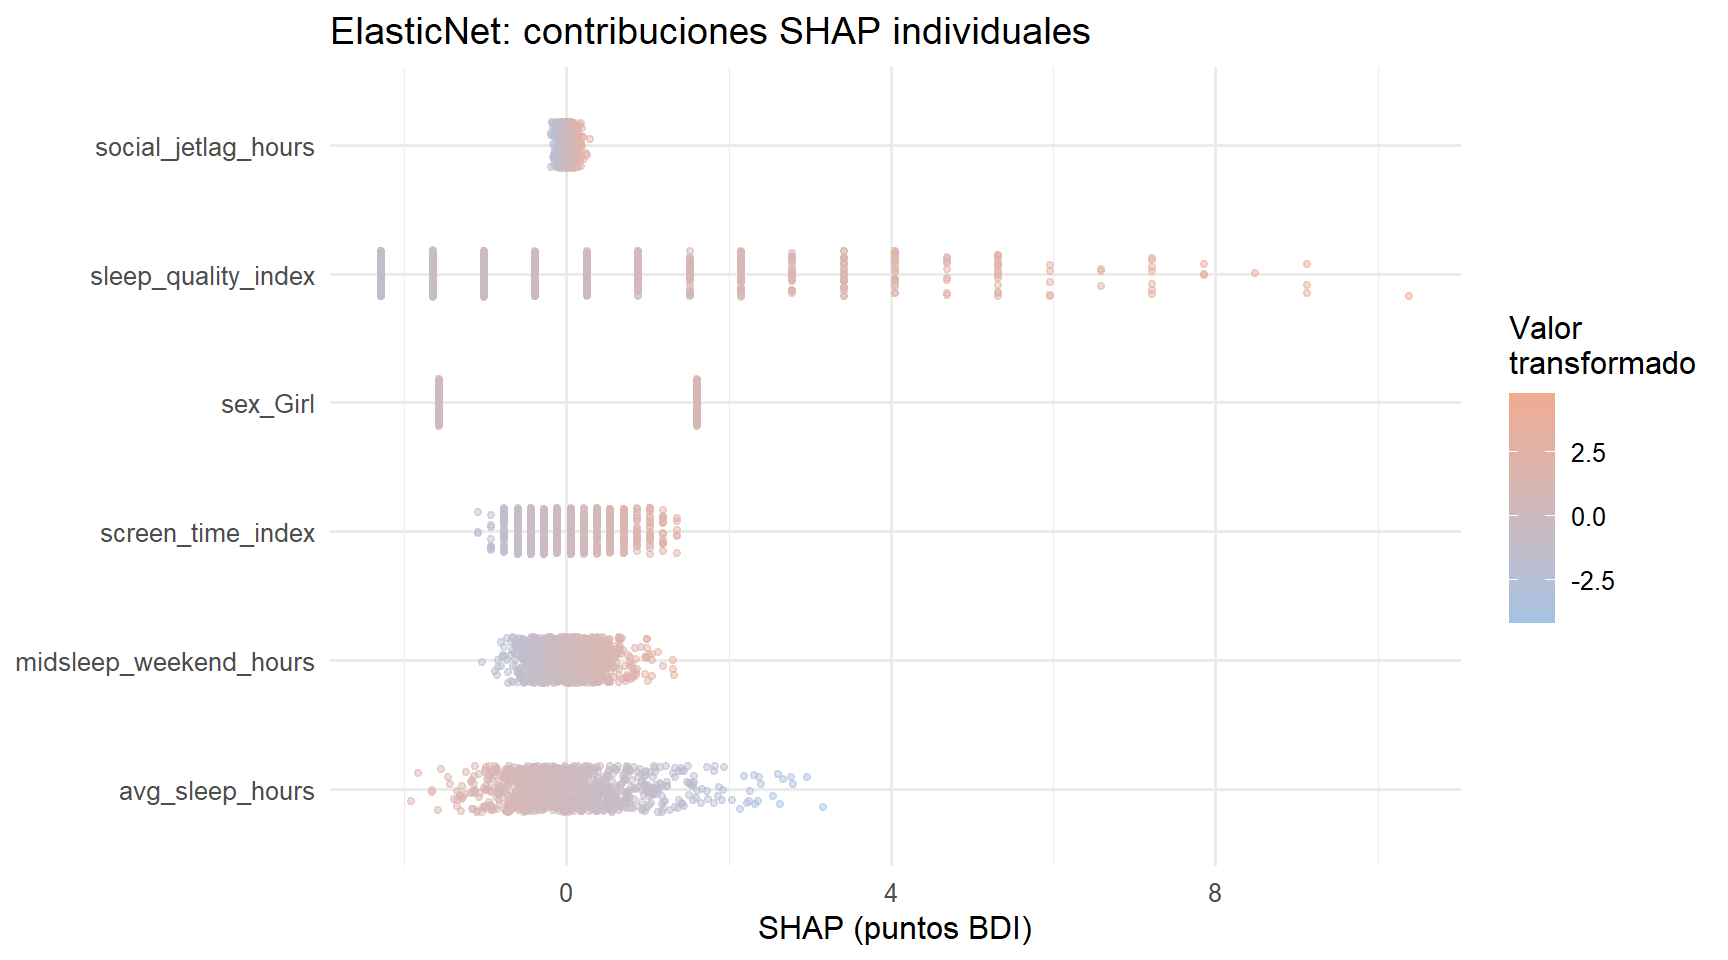
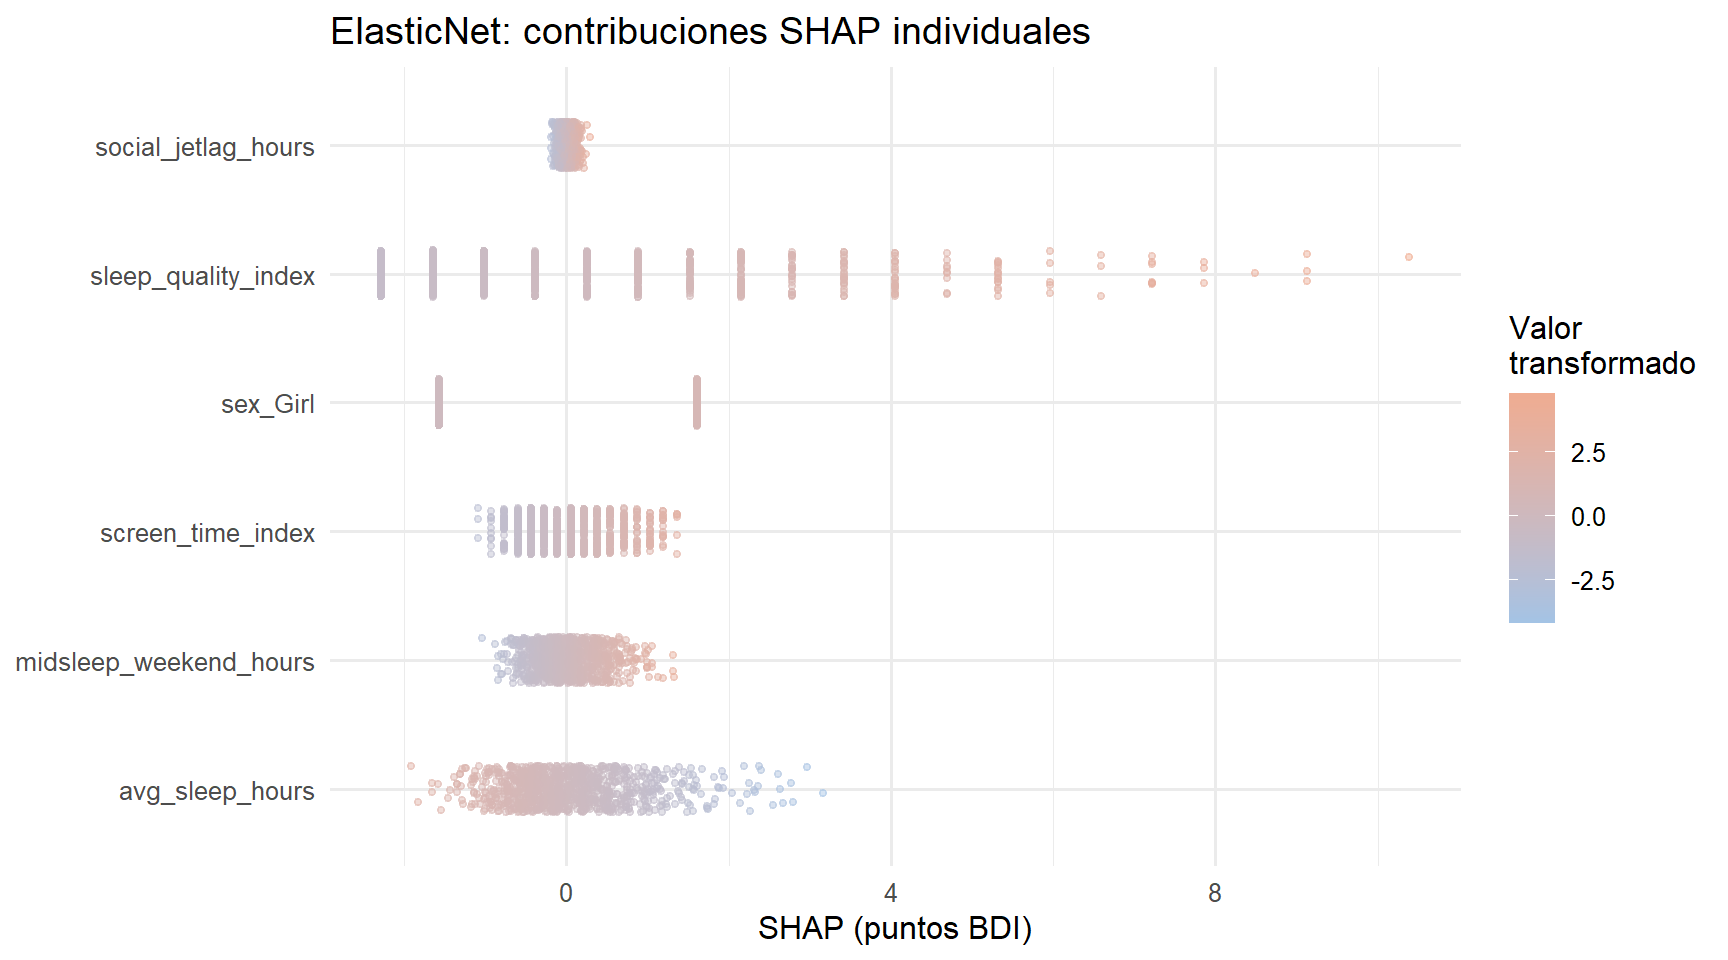
final

diff --git a/docs/interpretabilidad-de-los-modelos-finales.html b/docs/interpretabilidad-de-los-modelos-finales.html
@@ -243,6 +243,11 @@ code span.wa { color: #60a0b0; font-weight: bold; font-style: italic; } /* Warni
 </ul></li>
 <li class="chapter" data-level="5.8" data-path="metodología-del-modelado.html"><a href="metodología-del-modelado.html#comparaci%C3%B3n-entre-regresi%C3%B3n-y-clasificaci%C3%B3n"><i class="fa fa-check"></i><b>5.8</b> Comparación entre regresión y clasificación</a></li>
 <li class="chapter" data-level="5.9" data-path="metodología-del-modelado.html"><a href="metodología-del-modelado.html#persistencia-de-resultados"><i class="fa fa-check"></i><b>5.9</b> Persistencia de resultados</a></li>
+<li class="chapter" data-level="5.10" data-path="metodología-del-modelado.html"><a href="metodología-del-modelado.html#conclusiones-de-la-clasificaci%C3%B3n-y-la-regresi%C3%B3n"><i class="fa fa-check"></i><b>5.10</b> Conclusiones de la clasificación y la regresión</a>
+<ul>
+<li class="chapter" data-level="5.10.1" data-path="metodología-del-modelado.html"><a href="metodología-del-modelado.html#clasificaci%C3%B3n-del-estado-depresivo"><i class="fa fa-check"></i><b>5.10.1</b> Clasificación del estado depresivo</a></li>
+<li class="chapter" data-level="5.10.2" data-path="metodología-del-modelado.html"><a href="metodología-del-modelado.html#predicci%C3%B3n-del-puntaje-bdi-ii"><i class="fa fa-check"></i><b>5.10.2</b> Predicción del puntaje BDI-II</a></li>
+</ul></li>
 </ul></li>
 <li class="chapter" data-level="6" data-path="interpretabilidad-de-los-modelos-finales.html"><a href="interpretabilidad-de-los-modelos-finales.html"><i class="fa fa-check"></i><b>6</b> Interpretabilidad de los modelos finales</a>
 <ul>
@@ -256,7 +261,7 @@ code span.wa { color: #60a0b0; font-weight: bold; font-style: italic; } /* Warni
 <ul>
 <li class="chapter" data-level="6.4.1" data-path="interpretabilidad-de-los-modelos-finales.html"><a href="interpretabilidad-de-los-modelos-finales.html#shap-lineal-exacto-para-elasticnet"><i class="fa fa-check"></i><b>6.4.1</b> SHAP lineal exacto para ElasticNet</a></li>
 <li class="chapter" data-level="6.4.2" data-path="interpretabilidad-de-los-modelos-finales.html"><a href="interpretabilidad-de-los-modelos-finales.html#shap-de-catboost-y-prueba-de-aditividad"><i class="fa fa-check"></i><b>6.4.2</b> SHAP de CatBoost y prueba de aditividad</a></li>
-<li class="chapter" data-level="6.4.3" data-path="interpretabilidad-de-los-modelos-finales.html"><a href="interpretabilidad-de-los-modelos-finales.html#distribuciones-de-shap-beeswarm-simplificado"><i class="fa fa-check"></i><b>6.4.3</b> Distribuciones de SHAP (<em>beeswarm</em> simplificado)</a></li>
+<li class="chapter" data-level="6.4.3" data-path="interpretabilidad-de-los-modelos-finales.html"><a href="interpretabilidad-de-los-modelos-finales.html#distribuciones-de-shap-beeswarm-simplificado"><i class="fa fa-check"></i><b>6.4.3</b> Distribuciones de SHAP (beeswarm simplificado)</a></li>
 <li class="chapter" data-level="6.4.4" data-path="interpretabilidad-de-los-modelos-finales.html"><a href="interpretabilidad-de-los-modelos-finales.html#explicaci%C3%B3n-individual-y-gr%C3%A1fico-de-contribuciones"><i class="fa fa-check"></i><b>6.4.4</b> Explicación individual y gráfico de contribuciones</a></li>
 <li class="chapter" data-level="6.4.5" data-path="interpretabilidad-de-los-modelos-finales.html"><a href="interpretabilidad-de-los-modelos-finales.html#dependencia-y-posibles-no-linealidades"><i class="fa fa-check"></i><b>6.4.5</b> Dependencia y posibles no linealidades</a></li>
 </ul></li>
@@ -266,7 +271,7 @@ code span.wa { color: #60a0b0; font-weight: bold; font-style: italic; } /* Warni
 </ul></li>
 <li class="chapter" data-level="6.6" data-path="interpretabilidad-de-los-modelos-finales.html"><a href="interpretabilidad-de-los-modelos-finales.html#importancia-por-permutaci%C3%B3n-del-elasticnet"><i class="fa fa-check"></i><b>6.6</b> Importancia por permutación del ElasticNet</a></li>
 <li class="chapter" data-level="6.7" data-path="interpretabilidad-de-los-modelos-finales.html"><a href="interpretabilidad-de-los-modelos-finales.html#guardado-y-reproducibilidad"><i class="fa fa-check"></i><b>6.7</b> Guardado y reproducibilidad</a></li>
-<li class="chapter" data-level="6.8" data-path="interpretabilidad-de-los-modelos-finales.html"><a href="interpretabilidad-de-los-modelos-finales.html#interpretaci%C3%B3n-de-resultados"><i class="fa fa-check"></i><b>6.8</b> Interpretación de resultados</a></li>
+<li class="chapter" data-level="6.8" data-path="interpretabilidad-de-los-modelos-finales.html"><a href="interpretabilidad-de-los-modelos-finales.html#interpretacion-resultados"><i class="fa fa-check"></i><b>6.8</b> Interpretacion resultados</a></li>
 </ul></li>
 <li class="chapter" data-level="" data-path="referencias.html"><a href="referencias.html"><i class="fa fa-check"></i>Referencias</a></li>
 <li class="divider"></li>
@@ -632,7 +637,7 @@ f(x_i) = \phi_0 + \sum_{j=1}^{p} \phi_{ij}.
 <span id="cb15-7"><a href="interpretabilidad-de-los-modelos-finales.html#cb15-7" tabindex="-1"></a>  <span class="fu">theme_minimal</span>(<span class="at">base_size =</span> <span class="dv">12</span>)</span></code></pre></div>
 </div>
 <div id="distribuciones-de-shap-beeswarm-simplificado" class="section level3 hasAnchor" number="6.4.3">
-<h3><span class="header-section-number">6.4.3</span> Distribuciones de SHAP (<em>beeswarm</em> simplificado)<a href="interpretabilidad-de-los-modelos-finales.html#distribuciones-de-shap-beeswarm-simplificado" class="anchor-section" aria-label="Anchor link to header"></a></h3>
+<h3><span class="header-section-number">6.4.3</span> Distribuciones de SHAP (beeswarm simplificado)<a href="interpretabilidad-de-los-modelos-finales.html#distribuciones-de-shap-beeswarm-simplificado" class="anchor-section" aria-label="Anchor link to header"></a></h3>
 <p>El conjunto de puntos permite observar signo, magnitud y heterogeneidad. En estos gráficos se utiliza jitter para evitar el solapamiento; no es idéntico al algoritmo de colocación beeswarm de Python.</p>
 <div class="sourceCode" id="cb16"><pre class="sourceCode r"><code class="sourceCode r"><span id="cb16-1"><a href="interpretabilidad-de-los-modelos-finales.html#cb16-1" tabindex="-1"></a>shap_en_largo <span class="ot">&lt;-</span> <span class="fu">as.data.frame</span>(shap_en) <span class="sc">%&gt;%</span></span>
 <span id="cb16-2"><a href="interpretabilidad-de-los-modelos-finales.html#cb16-2" tabindex="-1"></a>  <span class="fu">mutate</span>(<span class="at">Fila =</span> <span class="fu">row_number</span>()) <span class="sc">%&gt;%</span></span>
@@ -874,10 +879,13 @@ f(x_i) = \phi_0 + \sum_{j=1}^{p} \phi_{ij}.
 <span id="cb30-9"><a href="interpretabilidad-de-los-modelos-finales.html#cb30-9" tabindex="-1"></a>  <span class="st">&quot;resultados/modelado_libro/interpretabilidad/catboost_R.cbm&quot;</span></span>
 <span id="cb30-10"><a href="interpretabilidad-de-los-modelos-finales.html#cb30-10" tabindex="-1"></a>)</span></code></pre></div>
 </div>
-<div id="interpretación-de-resultados" class="section level2 hasAnchor" number="6.8">
-<h2><span class="header-section-number">6.8</span> Interpretación de resultados<a href="interpretabilidad-de-los-modelos-finales.html#interpretaci%C3%B3n-de-resultados" class="anchor-section" aria-label="Anchor link to header"></a></h2>
-<p>En el libro original, la calidad del sueño y el sexo aparecen entre los predictores más relevantes, seguidos de la duración del sueño. Los valores SHAP del clasificador CatBoost se expresan en log-odds, mientras que las contribuciones del ElasticNet se presentan en puntos BDI-II. El análisis describe asociaciones utilizadas por los modelos, sin inferir que alterar una variable produciría necesariamente el cambio predicho.</p>
-<p>Los resultados de esta adaptación deben comentarse después de ejecutar los bloques en R, porque la variabilidad en el split, la regularización y el entrenamiento puede cambiar las magnitudes y el orden de las variables. No se deben reutilizar literalmente como resultados de R los coeficientes o las importancias estimadas en Python.</p>
+<div id="interpretacion-resultados" class="section level2 hasAnchor" number="6.8">
+<h2><span class="header-section-number">6.8</span> Interpretacion resultados<a href="interpretabilidad-de-los-modelos-finales.html#interpretacion-resultados" class="anchor-section" aria-label="Anchor link to header"></a></h2>
+<p>La interpretación del modelo ElasticNet permite identificar qué variables contribuyen más a sus predicciones del puntaje BDI-II y en qué dirección se manifiestan esas contribuciones, manteniendo las demás variables constantes. Entre los coeficientes publicados, el indicador correspondiente a sexo femenino (<code>sex_Girl</code>) presenta un coeficiente de 3,181 puntos, mientras que <code>sleep_quality_index</code> registra un coeficiente de 2,158 puntos por desviación estándar. En la misma escala estandarizada, <code>avg_sleep_hours</code> muestra un coeficiente negativo de -0,754, y <code>screen_time_index</code> uno positivo de 0,505.</p>
+<p>Estas estimaciones indican que, dentro del modelo ajustado, el sexo y el índice de calidad del sueño tienen asociaciones predictivas más marcadas con el puntaje que las variables de pantalla. En particular, el signo negativo de las horas promedio de sueño es compatible con una predicción menor de BDI-II para valores mayores de duración del sueño, después del ajuste por las demás variables. El signo positivo de <code>sleep_quality_index</code> debe interpretarse según la codificación concreta del índice: no se debe asumir que un valor más alto represente necesariamente mejor calidad del sueño sin comprobar la definición de la escala.</p>
+<p>La importancia por permutación, calculada mediante el aumento del RMSE al alterar cada predictor, respalda esa jerarquía. Las mayores variaciones correspondieron a <code>sleep_quality_index</code> (0,7913 puntos de RMSE), <code>sex</code> (0,3845) y <code>avg_sleep_hours</code> (0,1436). En contraste, <code>screen_time_index</code> (0,0359), <code>midsleep_weekend_hours</code> (0,0278) y especialmente <code>social_jetlag_hours</code> (0,0013) mostraron una contribución individual más pequeña al rendimiento predictivo de este ElasticNet. Esto no significa que esas variables carezcan de relevancia científica, sino que su alteración aislada afectó poco el error del modelo, dadas las demás variables y sus posibles correlaciones.</p>
+<p>El análisis SHAP lineal constituye una segunda forma de examinar estas predicciones. Su descomposición partió de un valor base de 7,2628 puntos BDI-II y reconstruyó las predicciones lineales con un error máximo de aditividad del orden de 3,553 × 10⁻¹⁵, prácticamente nulo a efectos numéricos. Este resultado comprueba la coherencia matemática de las contribuciones calculadas para ElasticNet, aunque no valida por sí mismo la precisión predictiva ni la causalidad de los efectos.</p>
+<p>En síntesis, los resultados efectivamente obtenidos en R apuntan a que el índice de calidad del sueño, el sexo y la duración del sueño tienen mayor peso predictivo que el índice global de pantallas en el ElasticNet analizado. Esta conclusión se refiere a las asociaciones aprendidas por ese modelo concreto y a la muestra estudiada. No permite establecer que modificar los hábitos de sueño o el uso de pantallas cause directamente una variación determinada del BDI-II.</p>
 
 </div>
 </div>

diff --git a/docs/metodología-del-modelado.html b/docs/metodología-del-modelado.html
@@ -243,6 +243,11 @@ code span.wa { color: #60a0b0; font-weight: bold; font-style: italic; } /* Warni
 </ul></li>
 <li class="chapter" data-level="5.8" data-path="metodología-del-modelado.html"><a href="metodología-del-modelado.html#comparaci%C3%B3n-entre-regresi%C3%B3n-y-clasificaci%C3%B3n"><i class="fa fa-check"></i><b>5.8</b> Comparación entre regresión y clasificación</a></li>
 <li class="chapter" data-level="5.9" data-path="metodología-del-modelado.html"><a href="metodología-del-modelado.html#persistencia-de-resultados"><i class="fa fa-check"></i><b>5.9</b> Persistencia de resultados</a></li>
+<li class="chapter" data-level="5.10" data-path="metodología-del-modelado.html"><a href="metodología-del-modelado.html#conclusiones-de-la-clasificaci%C3%B3n-y-la-regresi%C3%B3n"><i class="fa fa-check"></i><b>5.10</b> Conclusiones de la clasificación y la regresión</a>
+<ul>
+<li class="chapter" data-level="5.10.1" data-path="metodología-del-modelado.html"><a href="metodología-del-modelado.html#clasificaci%C3%B3n-del-estado-depresivo"><i class="fa fa-check"></i><b>5.10.1</b> Clasificación del estado depresivo</a></li>
+<li class="chapter" data-level="5.10.2" data-path="metodología-del-modelado.html"><a href="metodología-del-modelado.html#predicci%C3%B3n-del-puntaje-bdi-ii"><i class="fa fa-check"></i><b>5.10.2</b> Predicción del puntaje BDI-II</a></li>
+</ul></li>
 </ul></li>
 <li class="chapter" data-level="6" data-path="interpretabilidad-de-los-modelos-finales.html"><a href="interpretabilidad-de-los-modelos-finales.html"><i class="fa fa-check"></i><b>6</b> Interpretabilidad de los modelos finales</a>
 <ul>
@@ -1228,7 +1233,21 @@ code span.wa { color: #60a0b0; font-weight: bold; font-style: italic; } /* Warni
 <span id="cb31-9"><a href="metodología-del-modelado.html#cb31-9" tabindex="-1"></a>  ),</span>
 <span id="cb31-10"><a href="metodología-del-modelado.html#cb31-10" tabindex="-1"></a>  <span class="st">&quot;resultados/modelado_libro/ejemplos_modelado_R.rds&quot;</span></span>
 <span id="cb31-11"><a href="metodología-del-modelado.html#cb31-11" tabindex="-1"></a>)</span></code></pre></div>
+</div>
+<div id="conclusiones-de-la-clasificación-y-la-regresión" class="section level2 hasAnchor" number="5.10">
+<h2><span class="header-section-number">5.10</span> Conclusiones de la clasificación y la regresión<a href="metodología-del-modelado.html#conclusiones-de-la-clasificaci%C3%B3n-y-la-regresi%C3%B3n" class="anchor-section" aria-label="Anchor link to header"></a></h2>
+<div id="clasificación-del-estado-depresivo" class="section level3 hasAnchor" number="5.10.1">
+<h3><span class="header-section-number">5.10.1</span> Clasificación del estado depresivo<a href="metodología-del-modelado.html#clasificaci%C3%B3n-del-estado-depresivo" class="anchor-section" aria-label="Anchor link to header"></a></h3>
+<p>Los resultados de la regresión logística utilizada como referencia muestran que las variables de sueño, el índice de uso de pantallas y el sexo contienen información útil para distinguir entre adolescentes clasificados con y sin síntomas depresivos según el punto de corte empleado en el estudio. En el conjunto de prueba, el modelo obtuvo una ROC-AUC de 0,788 y una precisión promedio (AP o PR-AUC, según la denominación utilizada en este capítulo) de 0,473. Esta última métrica resulta especialmente pertinente por el desbalance de la variable objetivo: en el conjunto de entrenamiento se registraron 632 casos positivos frente a 3.215 negativos, aproximadamente cinco negativos por cada positivo.</p>
+<p>Sin embargo, la capacidad de discriminación no debe confundirse con la capacidad de identificar todos los casos positivos cuando se utiliza un umbral específico. Con el punto de corte de probabilidad de 0,5, el modelo alcanzó una precisión de 0,737, pero un recall de 0,181 y un F1 de 0,290. En otras palabras, entre los casos que el modelo señaló como positivos, una proporción relativamente alta correspondió a positivos reales, pero dejó sin identificar a una parte considerable de quienes pertenecían a esa clase.</p>
+</div>
+<div id="predicción-del-puntaje-bdi-ii" class="section level3 hasAnchor" number="5.10.2">
+<h3><span class="header-section-number">5.10.2</span> Predicción del puntaje BDI-II<a href="metodología-del-modelado.html#predicci%C3%B3n-del-puntaje-bdi-ii" class="anchor-section" aria-label="Anchor link to header"></a></h3>
+<p>En el problema de regresión, los resultados publicados indican que los seis predictores considerados explican solamente una parte de la variabilidad del puntaje BDI-II. El modelo lineal ordinario (OLS) presentó un RMSE de 6,908 puntos, un MAE de 4,878 puntos y un R² reportado de 0,247 en el conjunto de prueba. Esto sugiere que, aunque existe información predictiva en los patrones de sueño, pantallas y sexo, sigue habiendo variabilidad individual considerable que no queda recogida por esas variables.</p>
+<p>La regresión ElasticNet con parámetros ilustrativos produjo un RMSE de 6,910, un MAE de 4,879 y un R² de 0,247. Las diferencias frente a OLS fueron mínimas; con estos resultados no se observa una mejora práctica del error predictivo por el uso de regularización. No obstante, ElasticNet sigue siendo una alternativa de interés porque combina penalizaciones L1 y L2 y permite examinar la contribución de los predictores en un modelo regularizado. La elección definitiva de sus parámetros requiere validación cruzada, no valores seleccionados a partir del test.</p>
+<p>La exploración de transformaciones de la respuesta también evidenció que una corrección puede mejorar una métrica y empeorar otra. En el ejemplo con retransformación mediante smearing, el RMSE pasó de 7,252 sin corrección a 7,014 con corrección, mientras que el MAE aumentó de 4,654 a 4,901. Por ello, las decisiones de modelado deben considerar conjuntamente el error cuadrático y el absoluto, así como la estabilidad de las estimaciones entre particiones. En la validación cruzada publicada para el flujo ElasticNet se obtuvo un RMSE medio de 6,833 en cinco folds, valor que corresponde al entrenamiento y no debe confundirse con su resultado de prueba.</p>
 
+</div>
 </div>
 </div>
             </section>
